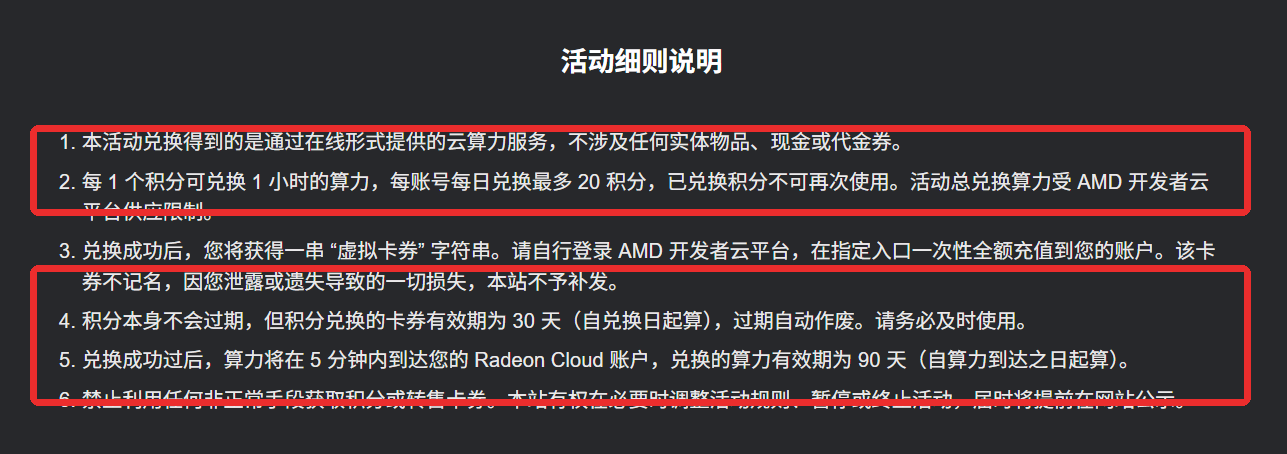
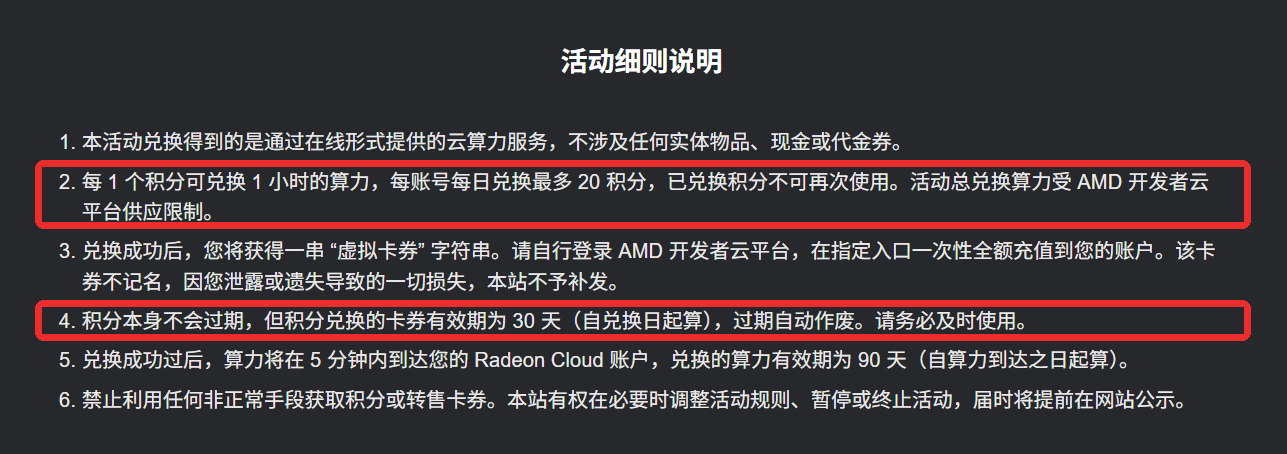
落实 Daniel 首轮 review
按原话更新开头、品牌与 backend 表述、补充结尾互动，并精确框选活动细则第 2、4 条。

Changed region(s): [[0.0, 0.5859, 0.9946, 0.8943], [0.0, 0.2775, 0.9946, 0.5242]]

diff --git a/zhihu/05-radeon-cloud-credits-guide/README.md b/zhihu/05-radeon-cloud-credits-guide/README.md
@@ -8,9 +8,9 @@
 - 不展开：全球站、SSH、Tunnel、Token Factory
 -->
 
-想部署开源模型推理服务，或运行 Agent 项目，却没有可用 GPU，怎么办？Radeon Cloud 是 AMD 提供的云算力平台，可以直接从浏览器创建 Notebook、App 或模型服务，在云端 AMD GPU 上运行自己的代码。
+我在知乎上看到很多朋友都想部署开源模型推理服务来玩一玩或者开发一些有趣的东西，包括各种 Agent 、diffusion、LLM、VLM、具身智能之类的，可惜没有可用 GPU算力资源，我猜多数人一开始可能想到的是去网上云平台租用nvidia GPU，但今天我们作为AMD按摩的，给大家力荐我们AMD Radeon Cloud，这是 AMD 提供的云算力平台，我们目前提供的GPU是Radeon Pro W7900专业显卡，48G显存，不要任何money，每个人都可以在云端 AMD Radeon GPU 上运行自己的代码和项目，本文将手把手教你如何baipiao AMD Radeon GPU
 
-Radeon Cloud 中国站的算力入口与 [AMD AI 开发者计划](https://developer.amd.com.cn/)（下文简称 ADP）相连。ADP 负责账号、活动权益和经验值，Radeon Cloud 则使用兑换后的 Credits 启动 GPU 实例。也就是说，第一次使用 Radeon Cloud，需要先从 ADP 取得云算力。
+AMD Radeon Cloud 中国站的算力入口与 [AMD AI 开发者计划](https://developer.amd.com.cn/)（下文简称 ADP）相连。ADP 负责账号、活动权益和经验值，Radeon Cloud 则使用兑换后的 Credits 启动 GPU 实例。也就是说，第一次使用 Radeon Cloud，需要先从 ADP 取得云算力。
 
 我实际从 ADP 兑换了 1 小时云算力，在 Radeon Cloud 创建 Notebook，确认 PyTorch 已识别 AMD GPU，并用 Qwen2.5-0.5B-Instruct 完成了一次推理。下面把领取、兑换、运行和销毁实例的完整步骤分享出来。
 
@@ -106,7 +106,7 @@ if available:
 PY
 ```
 
-本次环境返回 PyTorch 2.9.1、ROCm/HIP 7.2，`GPU available` 为 `True`，矩阵结果位于 `cuda:0`。这说明当前容器中的 PyTorch 已经可以调用云端 AMD GPU。
+本次环境返回 PyTorch 2.9.1、ROCm/HIP 7.2，`GPU available` 为 `True`，矩阵结果位于 `cuda:0`。这说明当前容器中的 PyTorch 已经可以发现并调用云端 AMD GPU backend。
 
 GPU 确认可用后，再安装 Transformers，并运行 Qwen2.5-0.5B-Instruct：
 
@@ -146,5 +146,7 @@ PY
 关闭 JupyterLab 标签页或退出浏览器不会停止云端实例。使用结束后，先保存需要保留的代码和输出，再回到 Profile 点击 `Destroy Instance`。页面显示 `No active instance` 后，这次使用才真正结束。
 
 ![1 Credit 的预扣与实例销毁](images/16-billing-and-destroy.png)
+
+好了，AMD Radeon cloud就是这样子使用滴，你学会了吗？欢迎评论区讨论交流你遇到的问题
 
 #AMD #RadeonCloud #ROCm #PyTorch #云算力 #GPU #大模型 #人工智能
